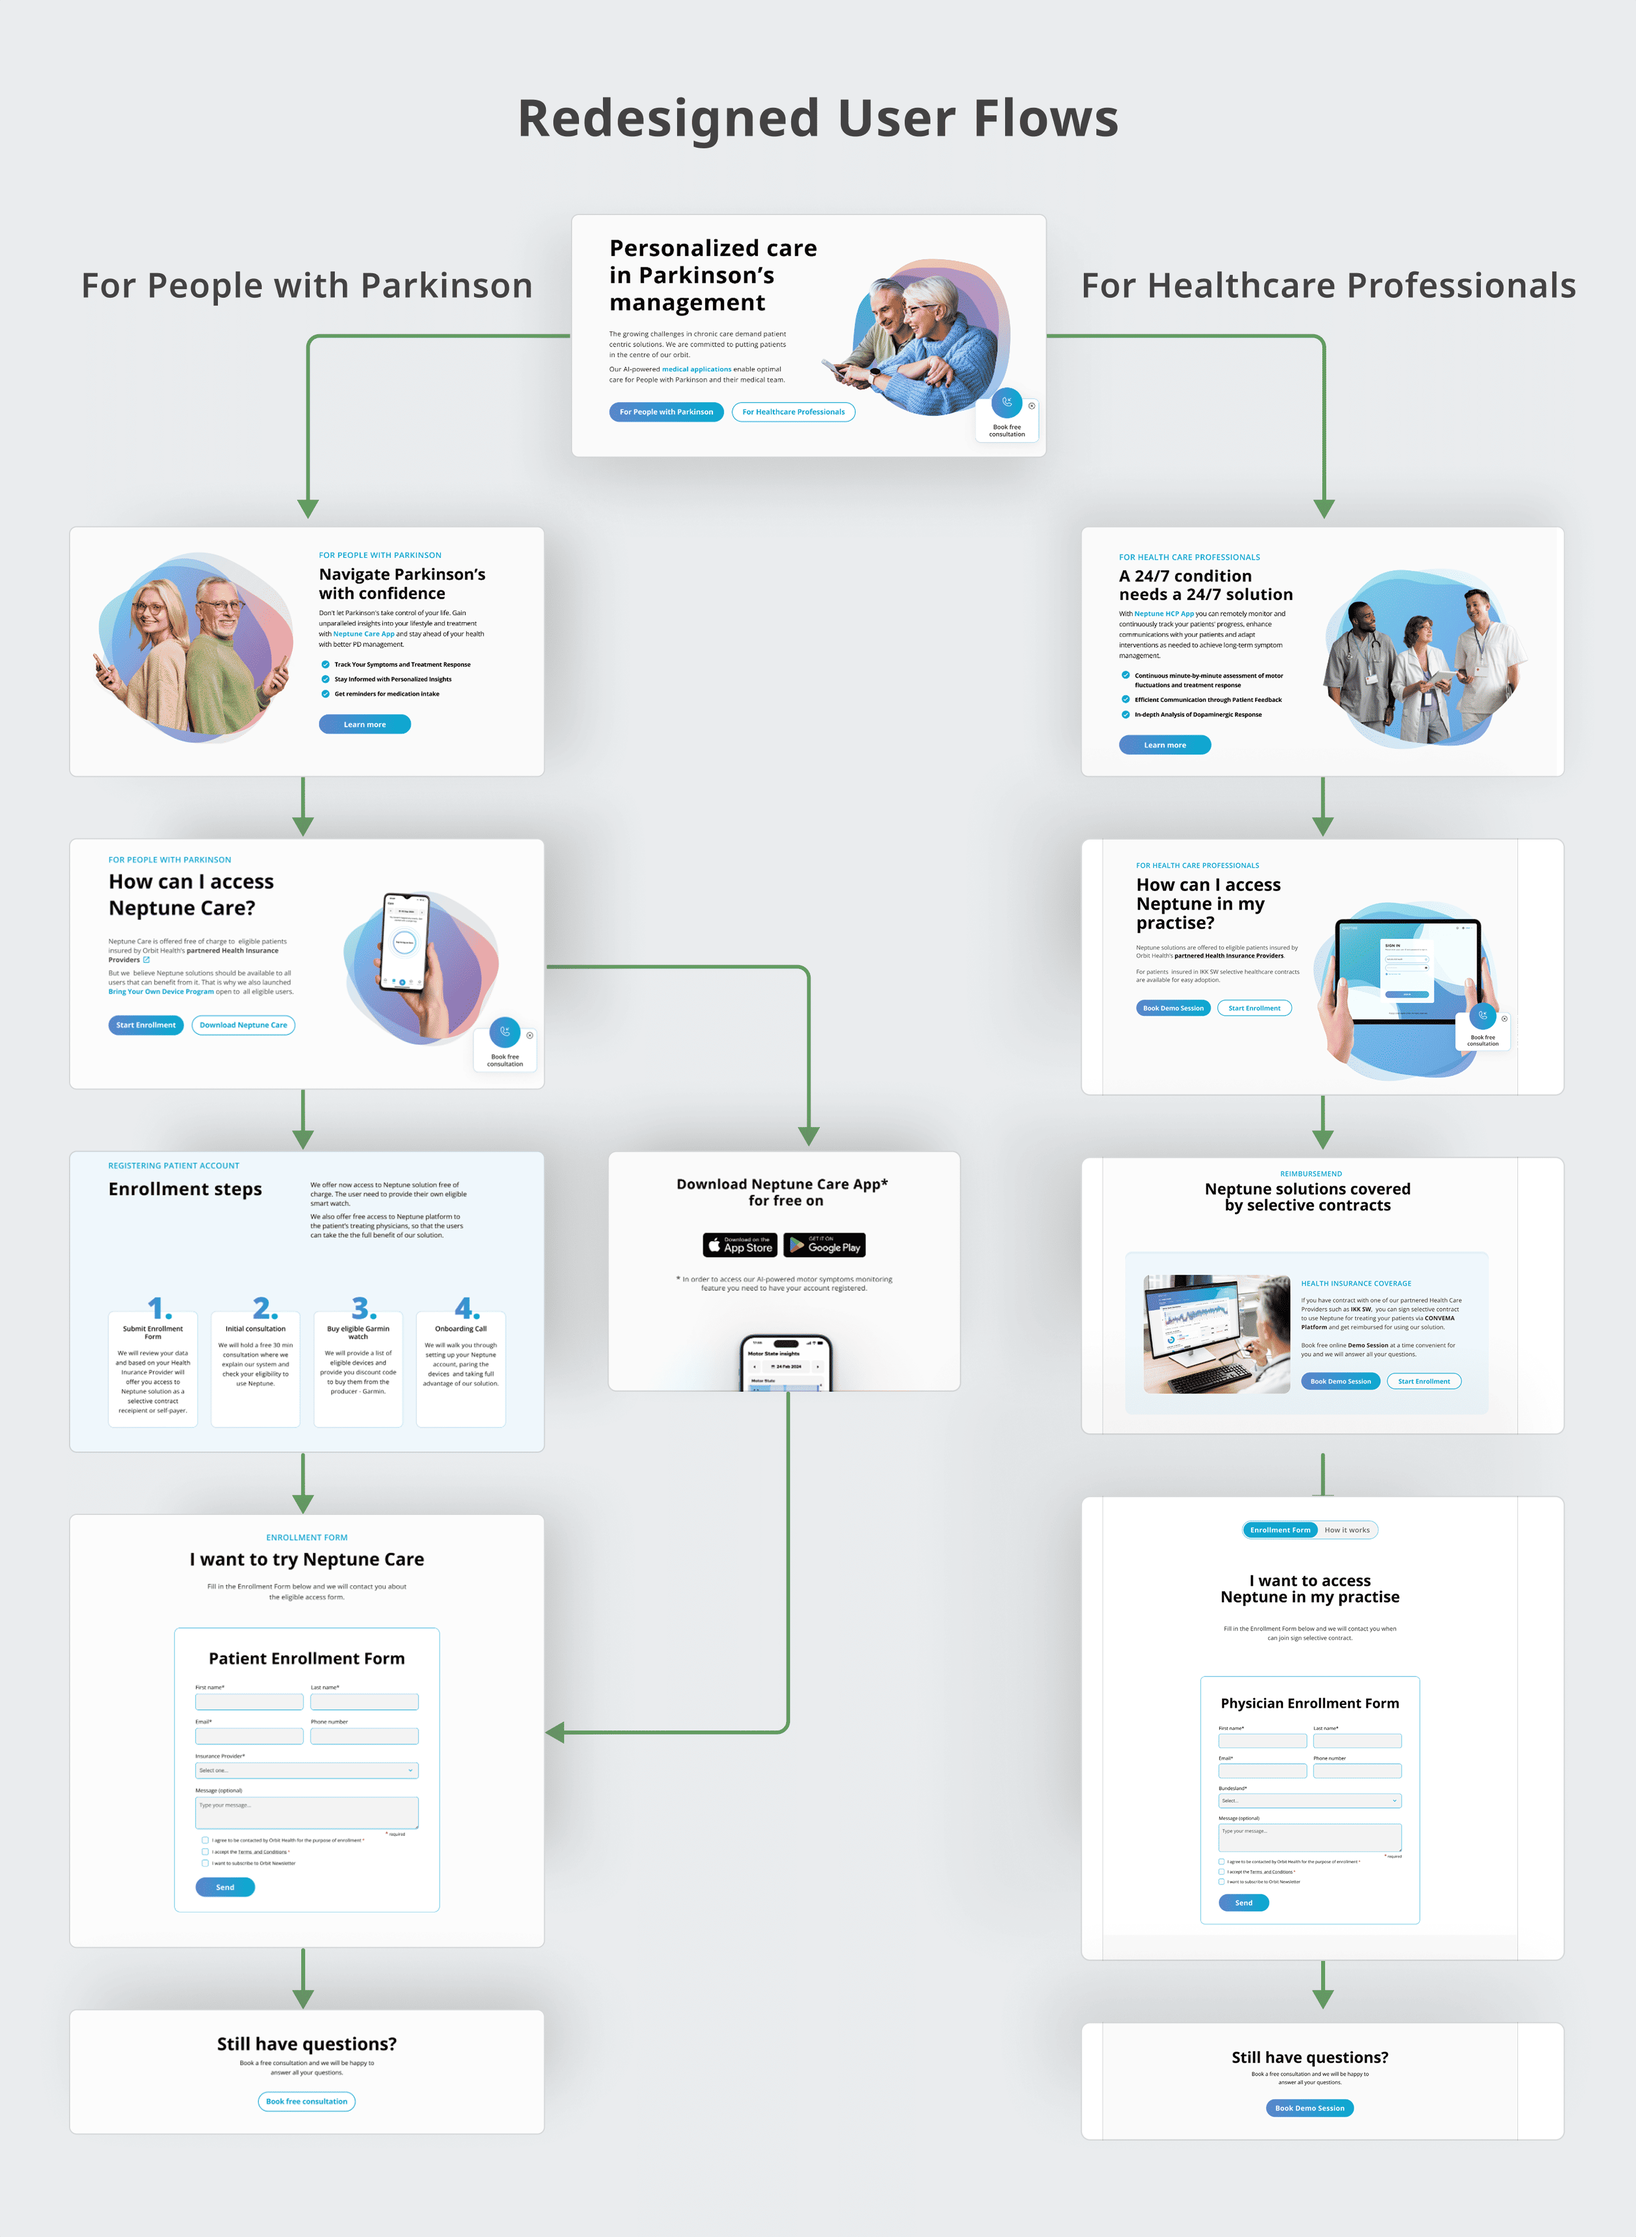
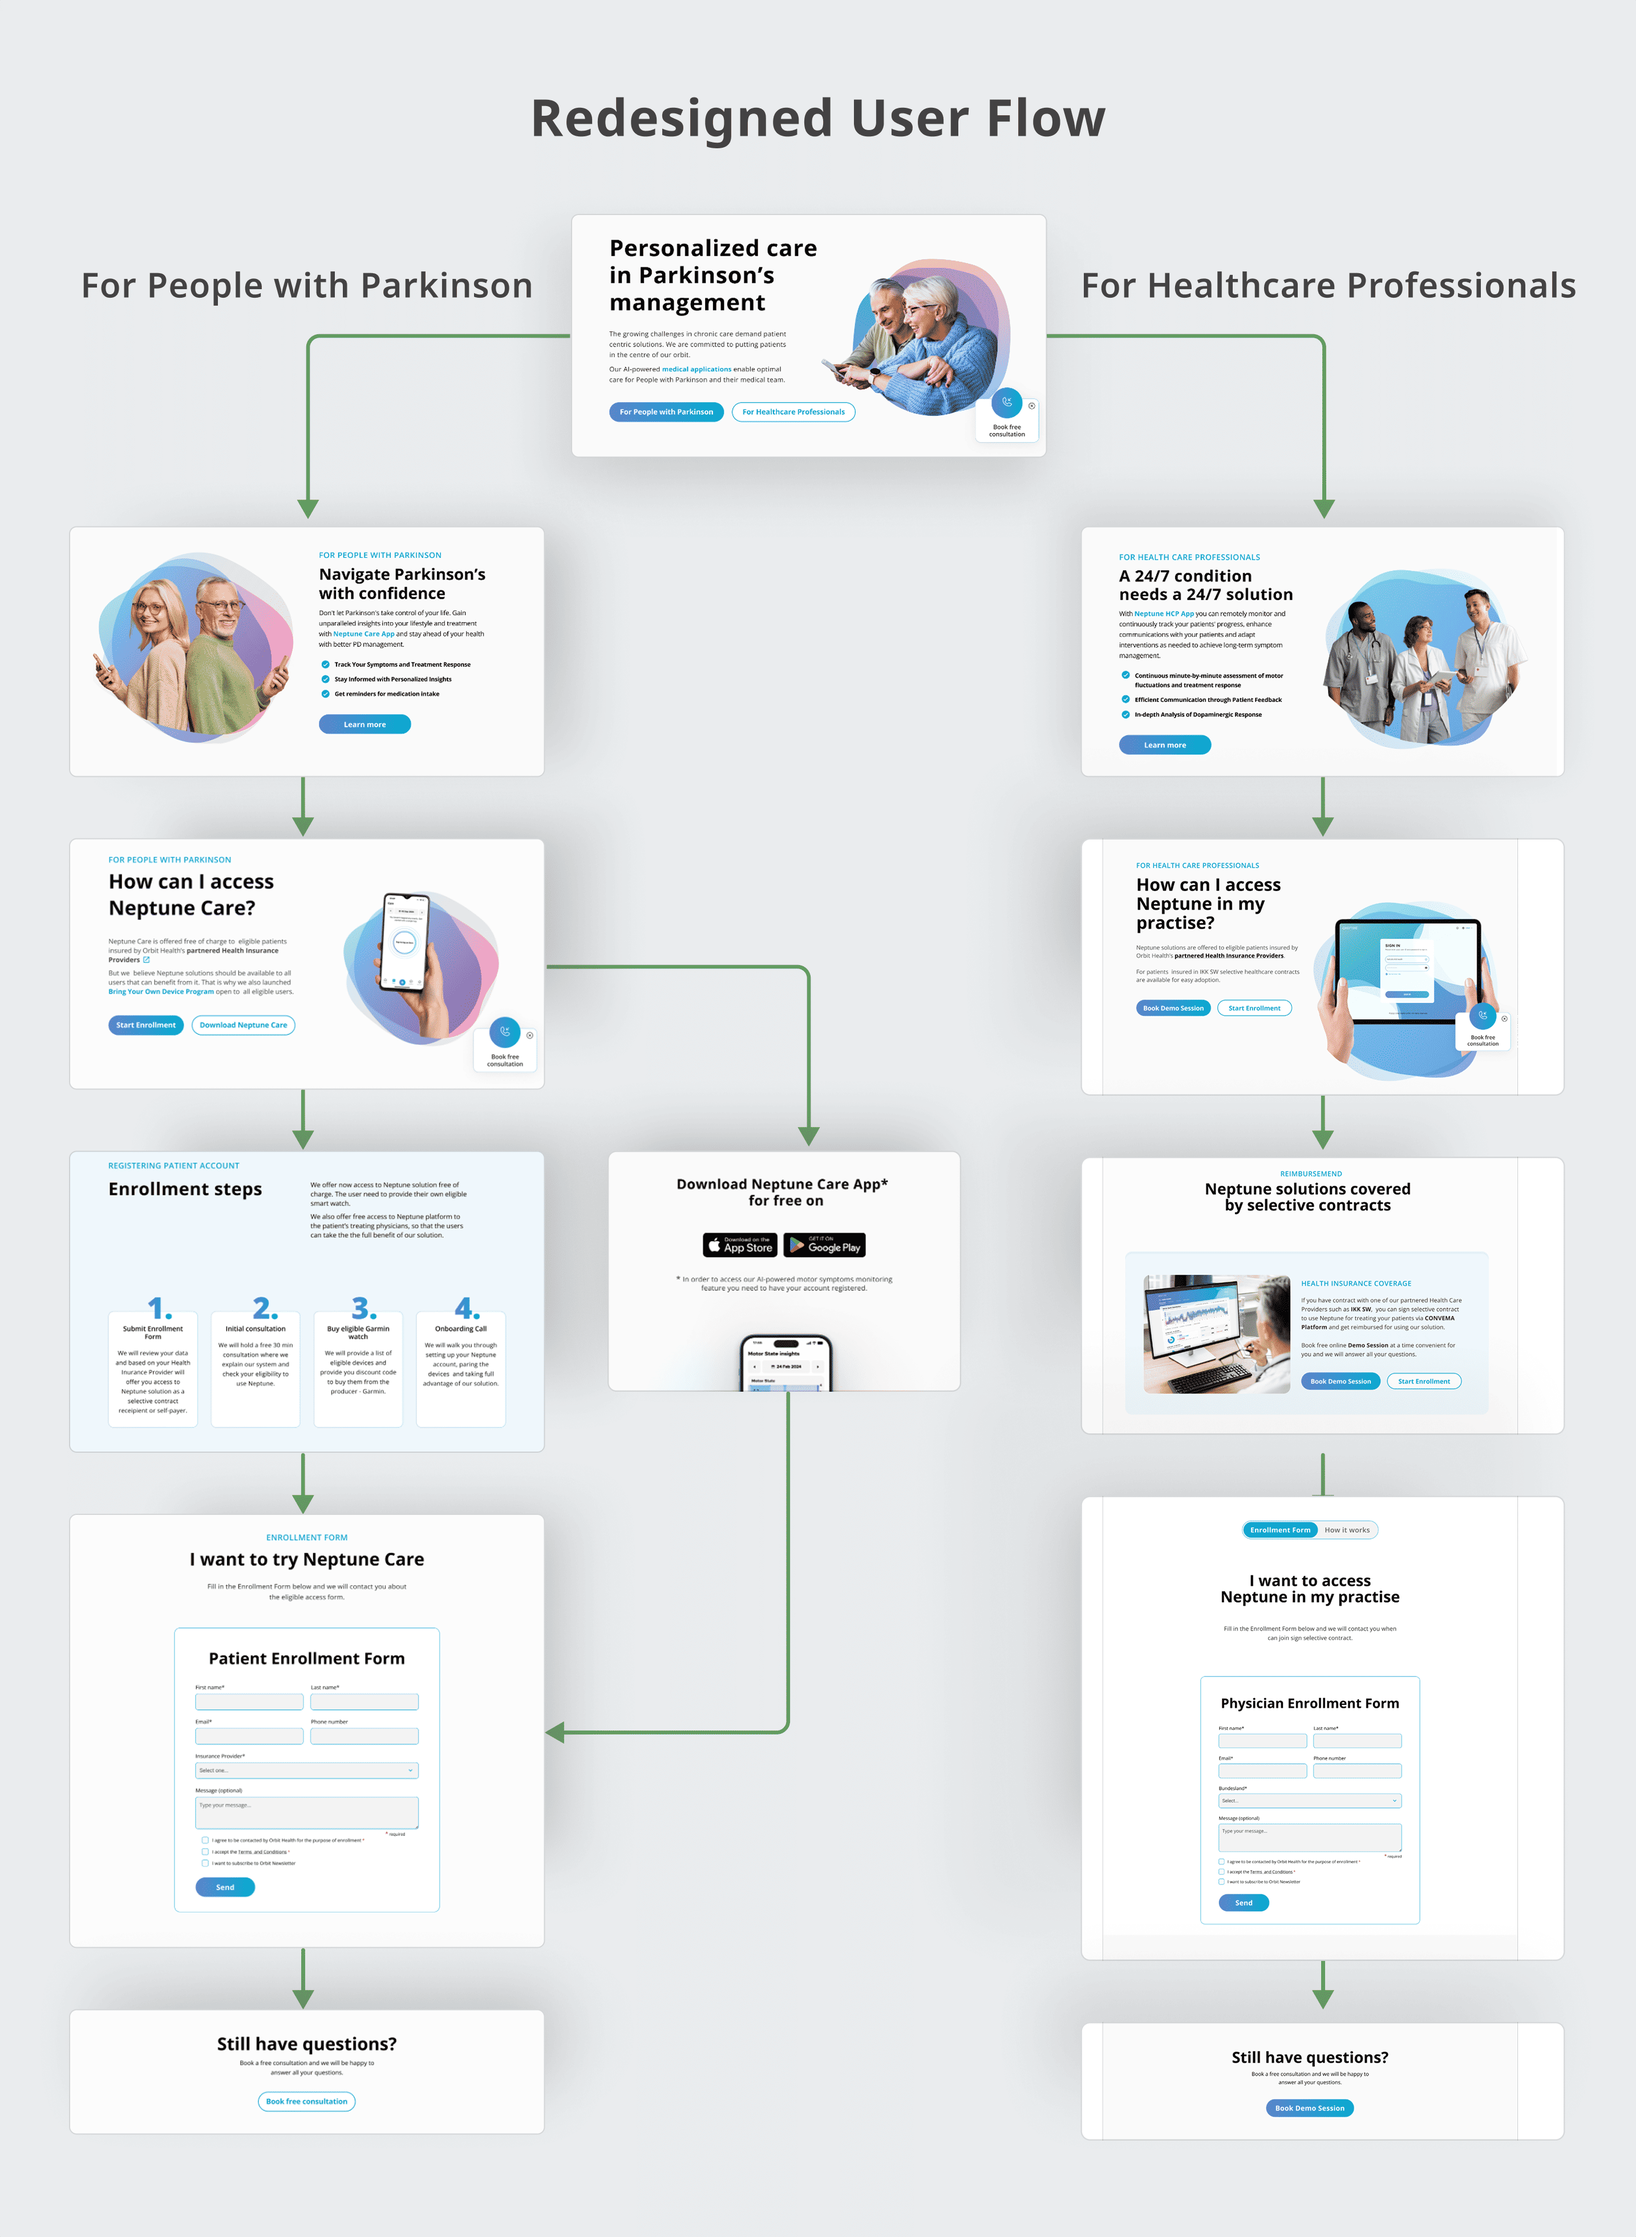
Visuals edited for Orbit cs

diff --git a/src/components/portfolio/case-studies/MyStoryCaseStudy.jsx b/src/components/portfolio/case-studies/MyStoryCaseStudy.jsx
@@ -45,11 +45,11 @@ const MyStoryCaseStudy = () => {
               className="shane_tm_title"
               data-aos="fade-up"
               data-aos-duration="1200"
-            > 
+            >
               <div className="subtitle-container">
-            <div className="subtitle-content">
-              <h1>Driving Growth through Tailored User Journeys</h1>
-              </div>
+                <div className="subtitle-content">
+                  <h1>Driving Growth through Tailored User Journeys</h1>
+                </div>
               </div>
               <div>
                 {" "}
@@ -59,7 +59,8 @@ const MyStoryCaseStudy = () => {
                 <div className="subtitle-content">
                   <h5>
                     How replacing a "one-size-fits-all" website with distinct
-                    paths for key users helps improving value proposition and conversion.
+                    paths for key users helps improving value proposition and
+                    conversion.
                   </h5>
                 </div>
               </div>
@@ -77,16 +78,15 @@ const MyStoryCaseStudy = () => {
         <div className="container">
           <div className="content">
             <div>
-               <video
-                    src="/img/portfolio/case-study/Orbit_Hero_Animcm.mp4"
-                    style={{ width: "100%" }}
-                    autoPlay
-                    loop
-                    muted
-                    playsInline
-              
-                    poster="/img/portfolio/case-study/Orbit_Hero_Animcm.mp4"
-                  />
+              <video
+                src="/img/portfolio/case-study/Orbit_Hero_Animcm.mp4"
+                style={{ width: "100%" }}
+                autoPlay
+                loop
+                muted
+                playsInline
+                poster="/img/portfolio/case-study/Orbit_Hero_Animcm.mp4"
+              />
 
               {/* Overview section */}
               <div className="shane_tm_section">
@@ -406,7 +406,7 @@ const MyStoryCaseStudy = () => {
                     loop
                     muted
                     playsInline
-                        controls
+                    controls
                     poster="/img/portfolio/case-study/HCP_Flow.mp4"
                   />
                   {/* Add caption */}
@@ -539,6 +539,7 @@ const MyStoryCaseStudy = () => {
                     </li>
                   </ul>
                 </div>
+
                 {/* <div
                   className="shane_tm_button"
                   data-aos="fade-up"
@@ -549,6 +550,13 @@ const MyStoryCaseStudy = () => {
               </div>
               {/* End right */}
             </div>
+
+            <div
+              className="full-image-section"
+              style={{ width: "100%" }}
+              data-aos="fade-up"
+              data-aos-duration="1200"
+            ></div>
           </div>
           {/* End container */}
         </div>
@@ -619,16 +627,16 @@ const MyStoryCaseStudy = () => {
               <div className="right">
                 <div data-aos="fade-up" data-aos-duration="1200">
                   <div data-aos="fade-up" data-aos-duration="1200">
-                  <video
-                    src="/img/portfolio/case-study/Patient_Flow.mp4"
-                    style={{ width: "100%" }}
-                    autoPlay
-                    loop
-                    muted
-                    playsInline
-                        controls
-                    poster="/img/portfolio/case-study/Patient_Flow.mp4"
-                  />
+                    <video
+                      src="/img/portfolio/case-study/Patient_Flow.mp4"
+                      style={{ width: "100%" }}
+                      autoPlay
+                      loop
+                      muted
+                      playsInline
+                      controls
+                      poster="/img/portfolio/case-study/Patient_Flow.mp4"
+                    />
                   </div>
                   {/* Add caption */}
 
@@ -644,8 +652,36 @@ const MyStoryCaseStudy = () => {
               </div>
               {/* End right */}
             </div>
+             <div className="container">
+            <div className="content">
+              <div>
+                <img
+                  src="/img/portfolio/case-study/websites_comparison_before_after_cm.png"
+                  alt="Redesign Pages Comparison"
+                  className="clickable-image"
+                  style={{ width: "100%", cursor: "pointer", marginTop: "4em"}}
+                  onClick={() =>
+                    handleImageClick(
+                      "/img/portfolio/case-study/websites_comparison_before_after_cm",
+                    )
+                  }
+                />
+              </div>
+              <div className="right">
+                <div className="image_caption">
+                  <p>
+                    Clarity is the best form of Empathy. When dealing with a
+                    complex disease like Parkinson’s, a designer’s most
+                    important job is to remove the noise so that life–changing
+                    technology can actually reach the people who need it.
+                  </p>
+                </div>
+              </div>
+            </div>
+          </div>
           </div>
           {/* End container */}
+         
         </div>
       </div>
       {/* --- END COPY --- */}
